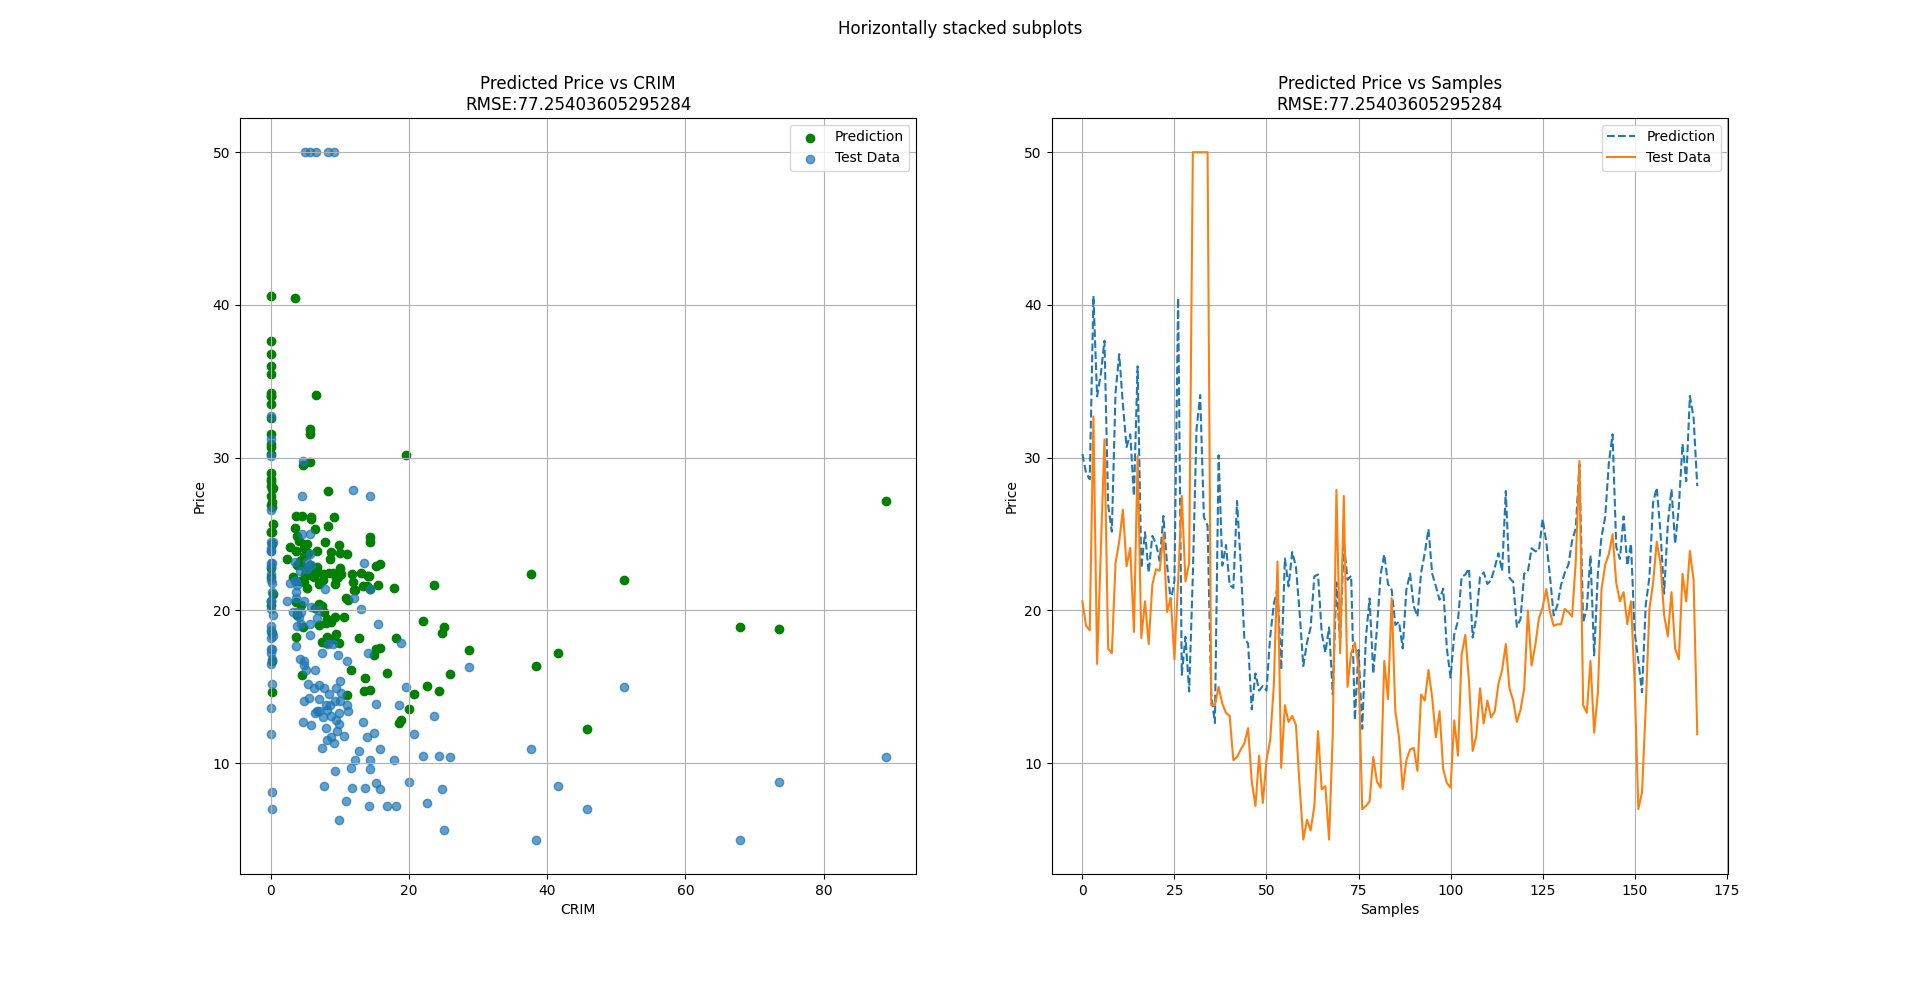
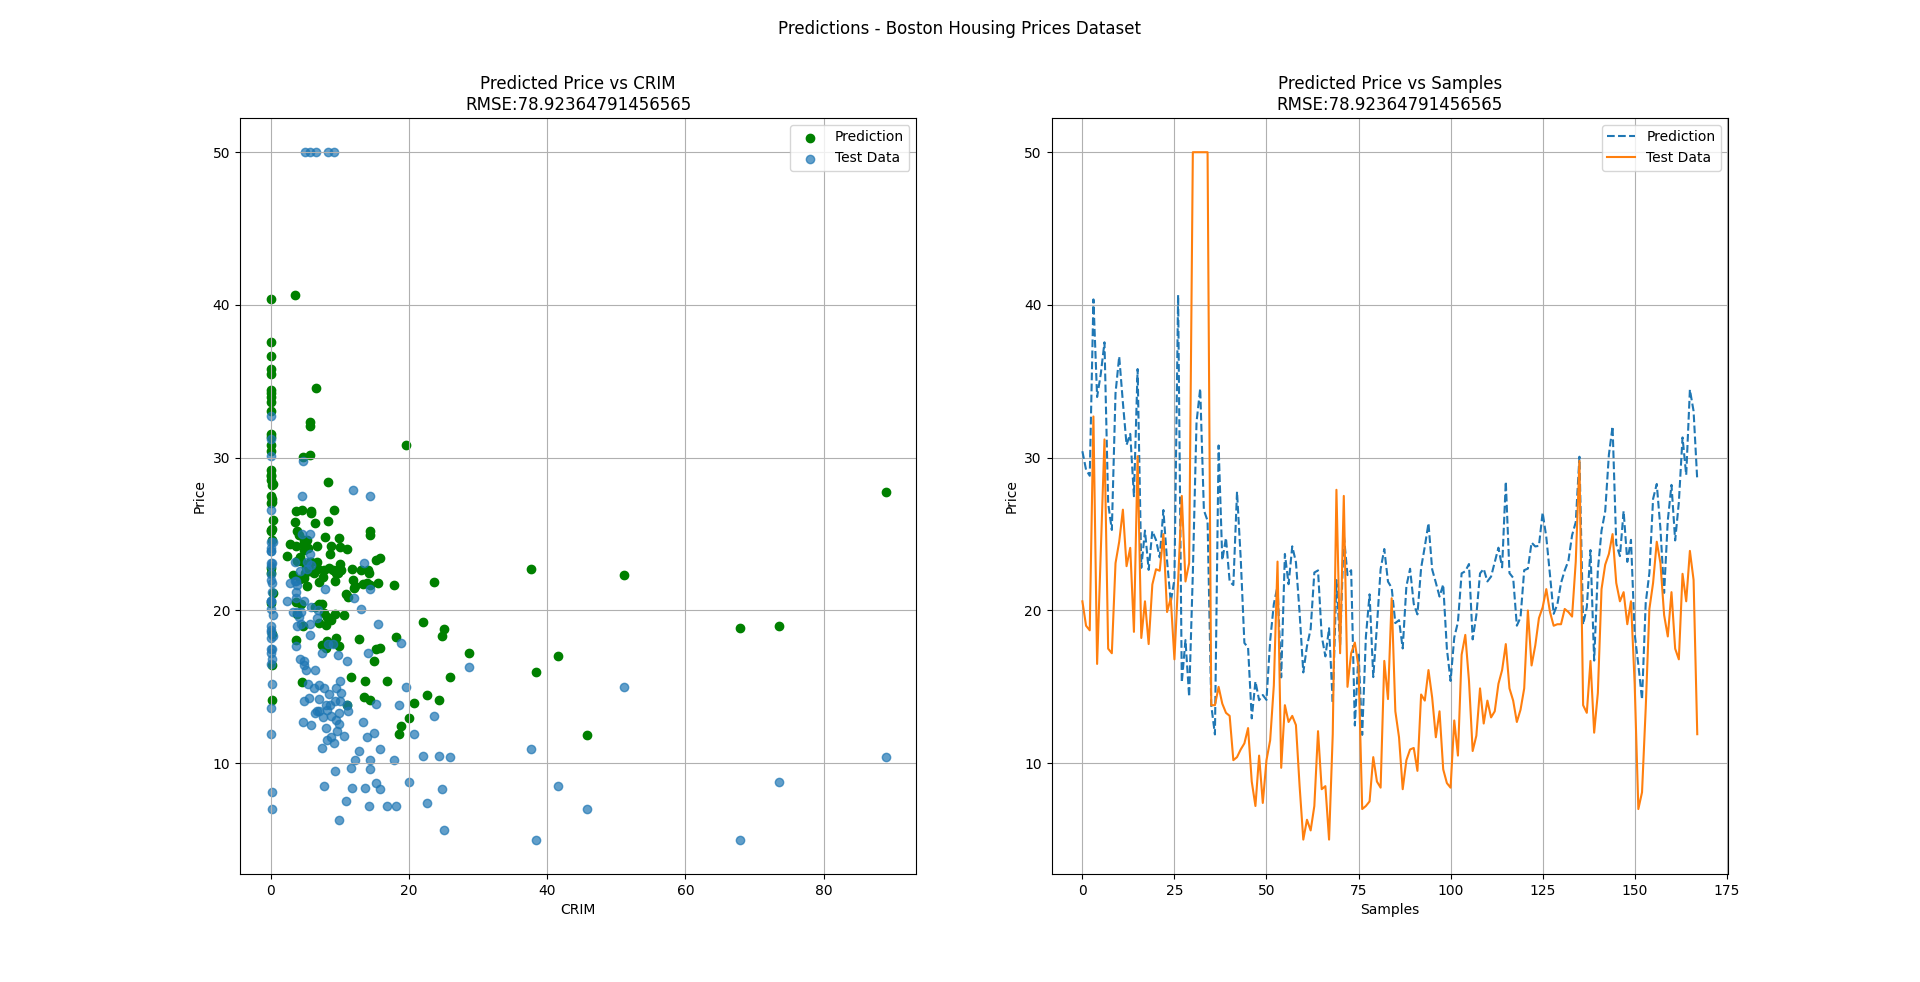
plot title changed

diff --git a/q6_boston.py b/q6_boston.py
@@ -75,7 +75,7 @@ y_hat = y_hat.reshape((y_hat.shape[1],))
 y_test = y_test.reshape((y_test.shape[1],))
 
 fig, (ax1, ax2) = plt.subplots(1, 2, figsize=(20,8))
-fig.suptitle('Horizontally stacked subplots')
+fig.suptitle('Predictions - Boston Housing Prices Dataset')
 
 ax1.scatter(unscaled_X_test[0,:], y_hat, color='g',label="Prediction")
 ax1.scatter(unscaled_X_test[0,:], y_test, alpha=0.7, label="Test Data")

diff --git a/q6_subjective.md b/q6_subjective.md
@@ -38,7 +38,7 @@ Train test dataset created using 3 Fold Cross Validation.
 
 The decrease in the loss function is presented in the graph below,
 
-RMSE: **77.2540**
+RMSE: **78.9236**
 ![](nn_boston_loss.png)
 
 
